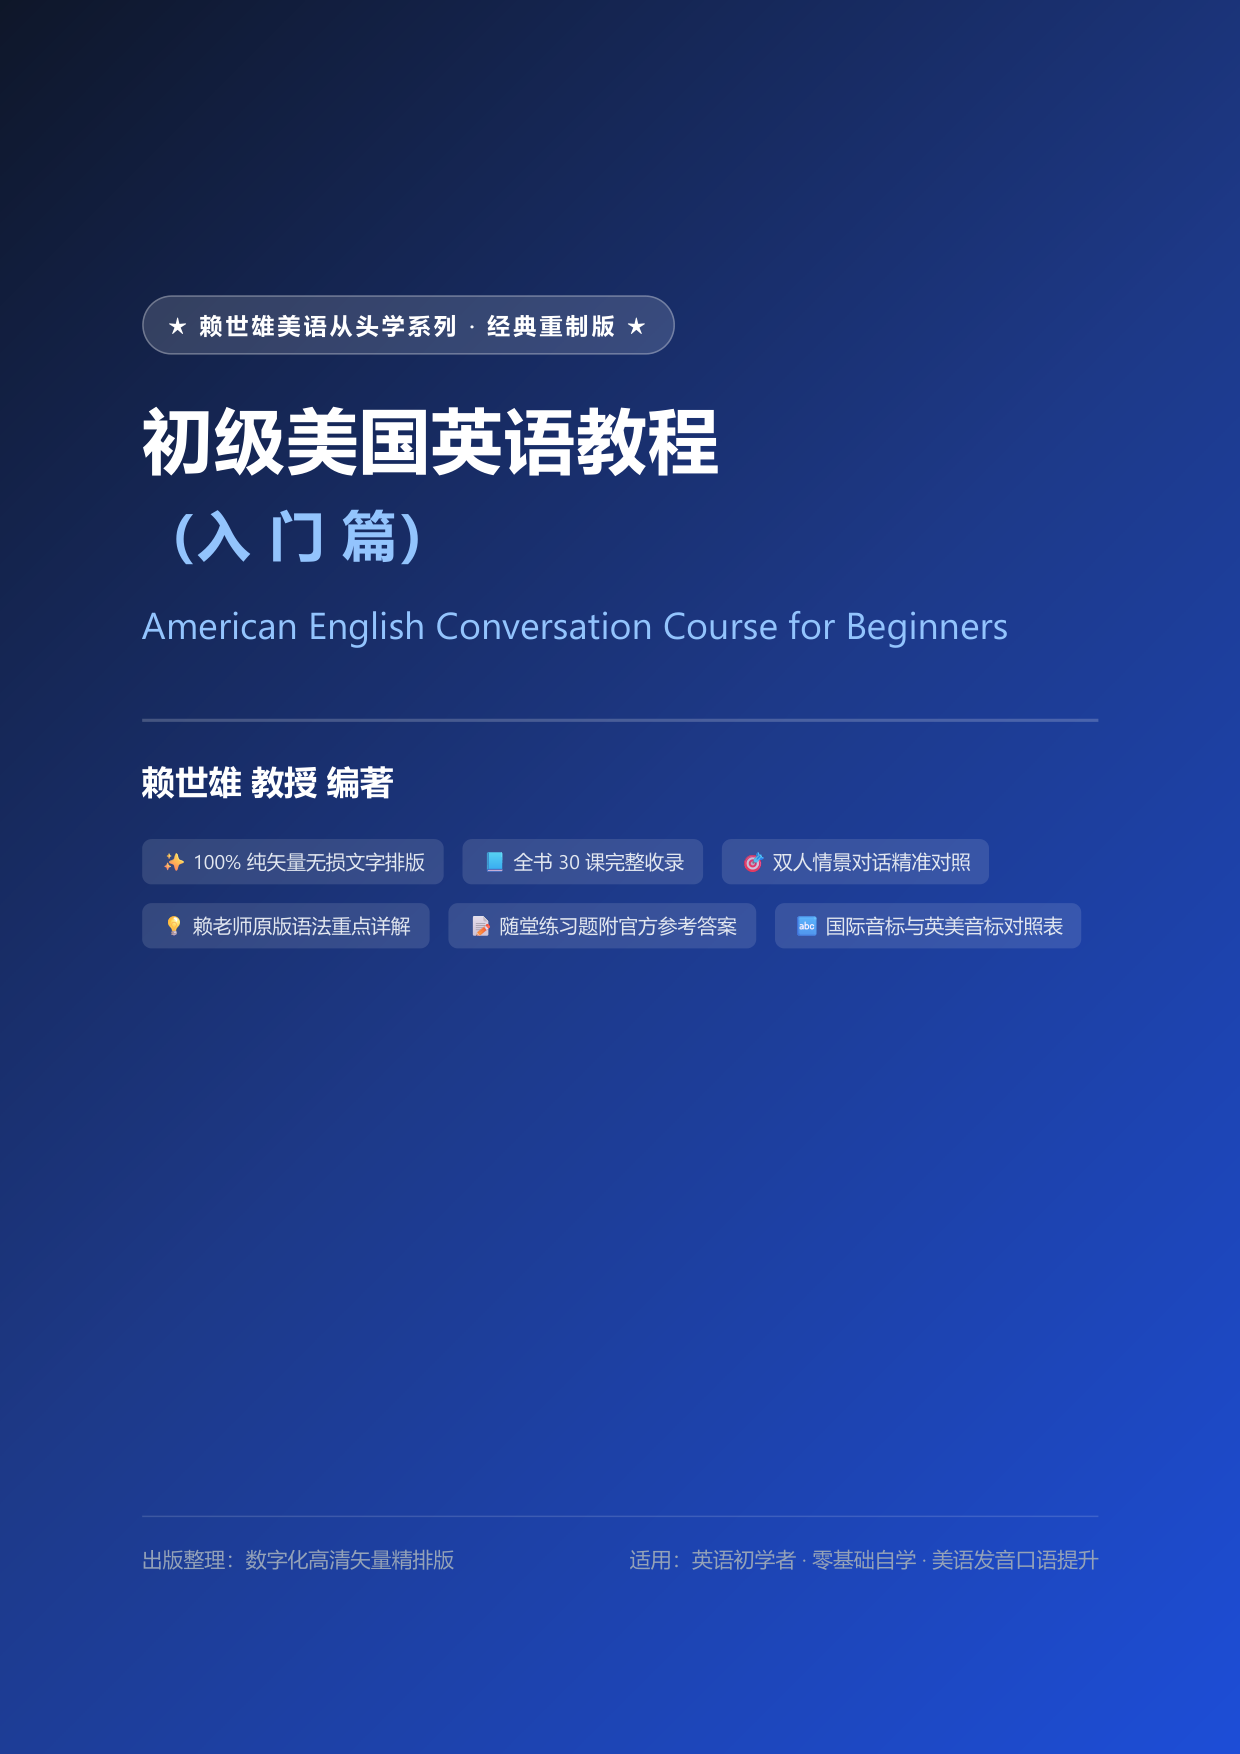
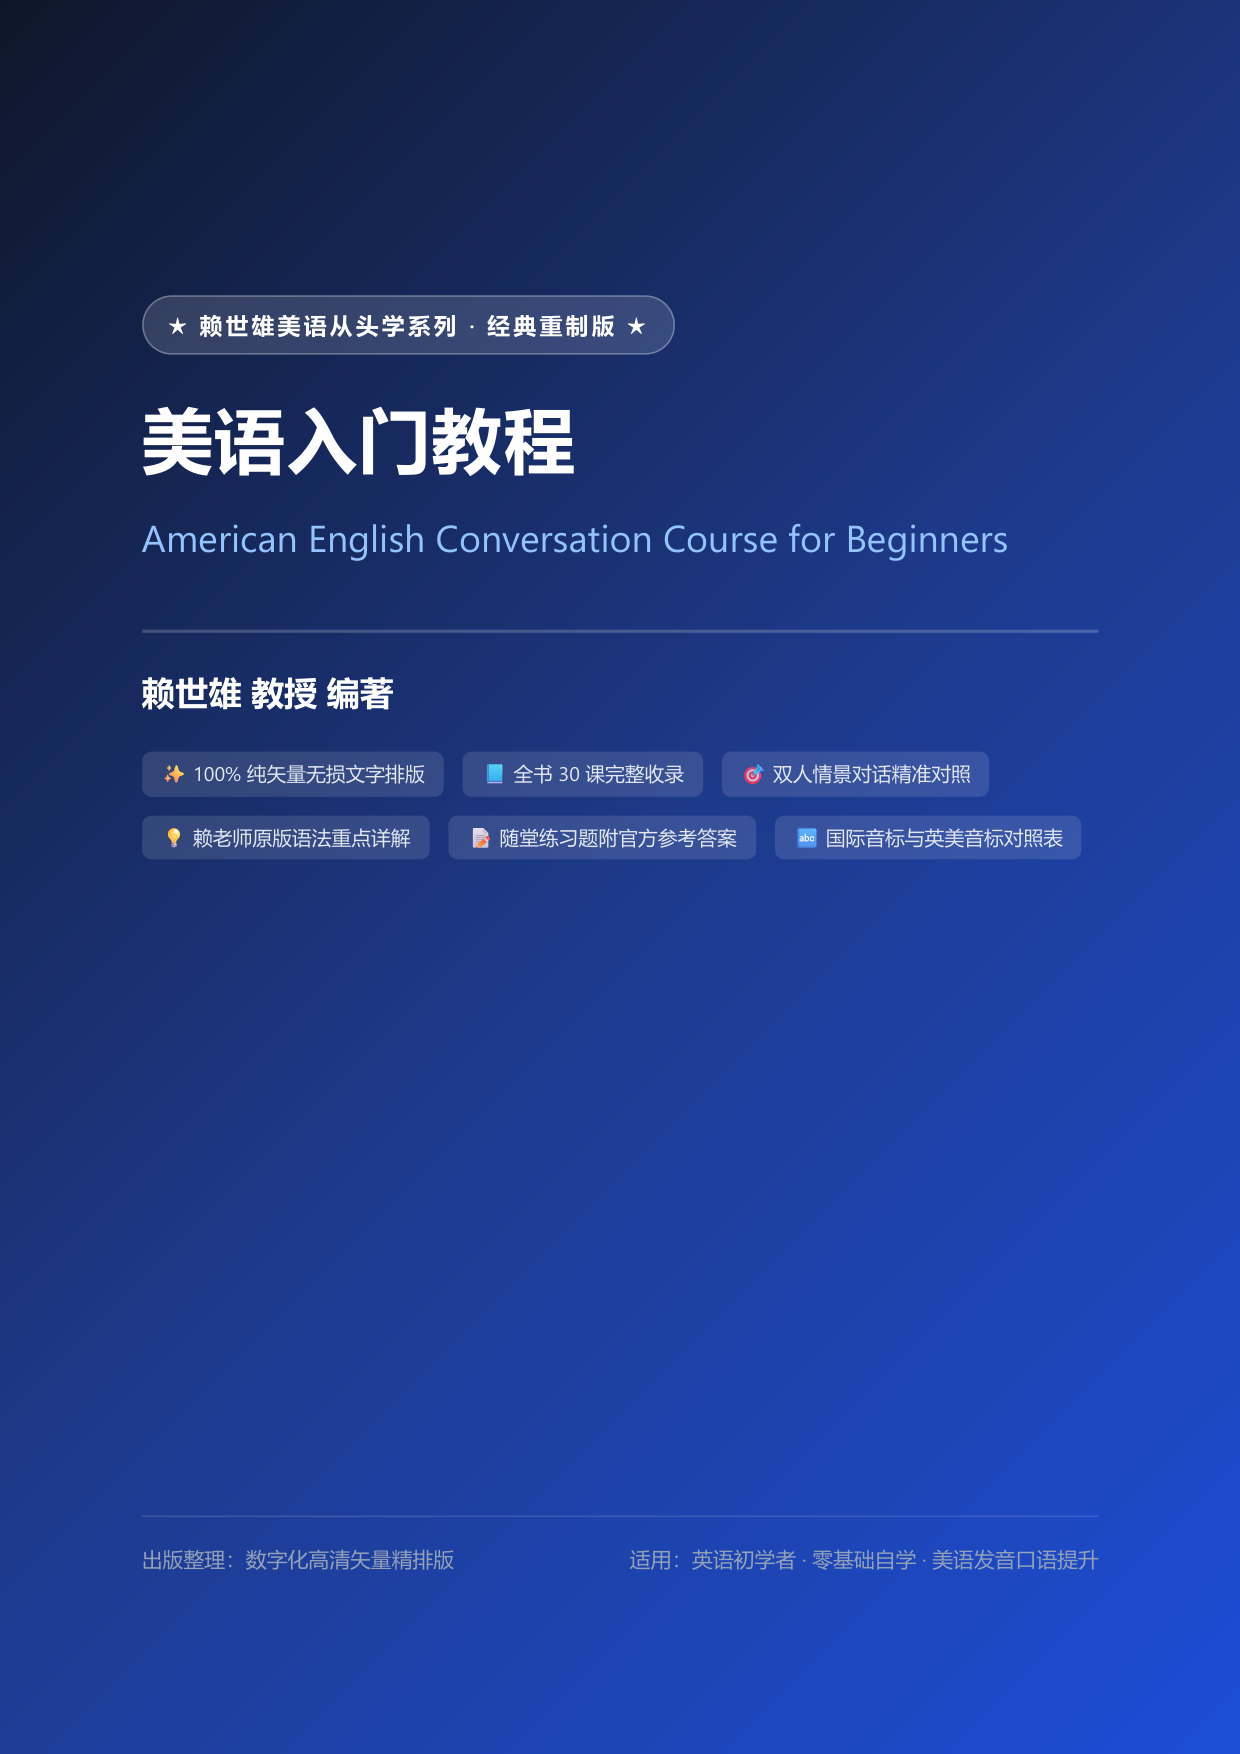
Update beginner book title to 美语入门教程 on web portal and cover

Changed region(s): [[0.0919, 0.2155, 0.8887, 0.5542]]

diff --git a/books.js b/books.js
@@ -5,9 +5,9 @@
 window.BOOKS_DATABASE = [
   {
     "id": "laishi_beginner",
-    "title": "初级美国英语教程 · 入门篇",
+    "title": "美语入门教程",
     "enTitle": "American English - Beginner's Guide",
-    "subtitle": "经典全本数字化高清重制版（全 30 课精校附答案/音标对照表）",
+    "subtitle": "赖世雄美语从头学系列 · 零起点入门篇（全 30 课精校附答案/音标对照表）",
     "author": "赖世雄 编著",
     "series": "赖世雄美语从头学系列",
     "category": "laishi",
